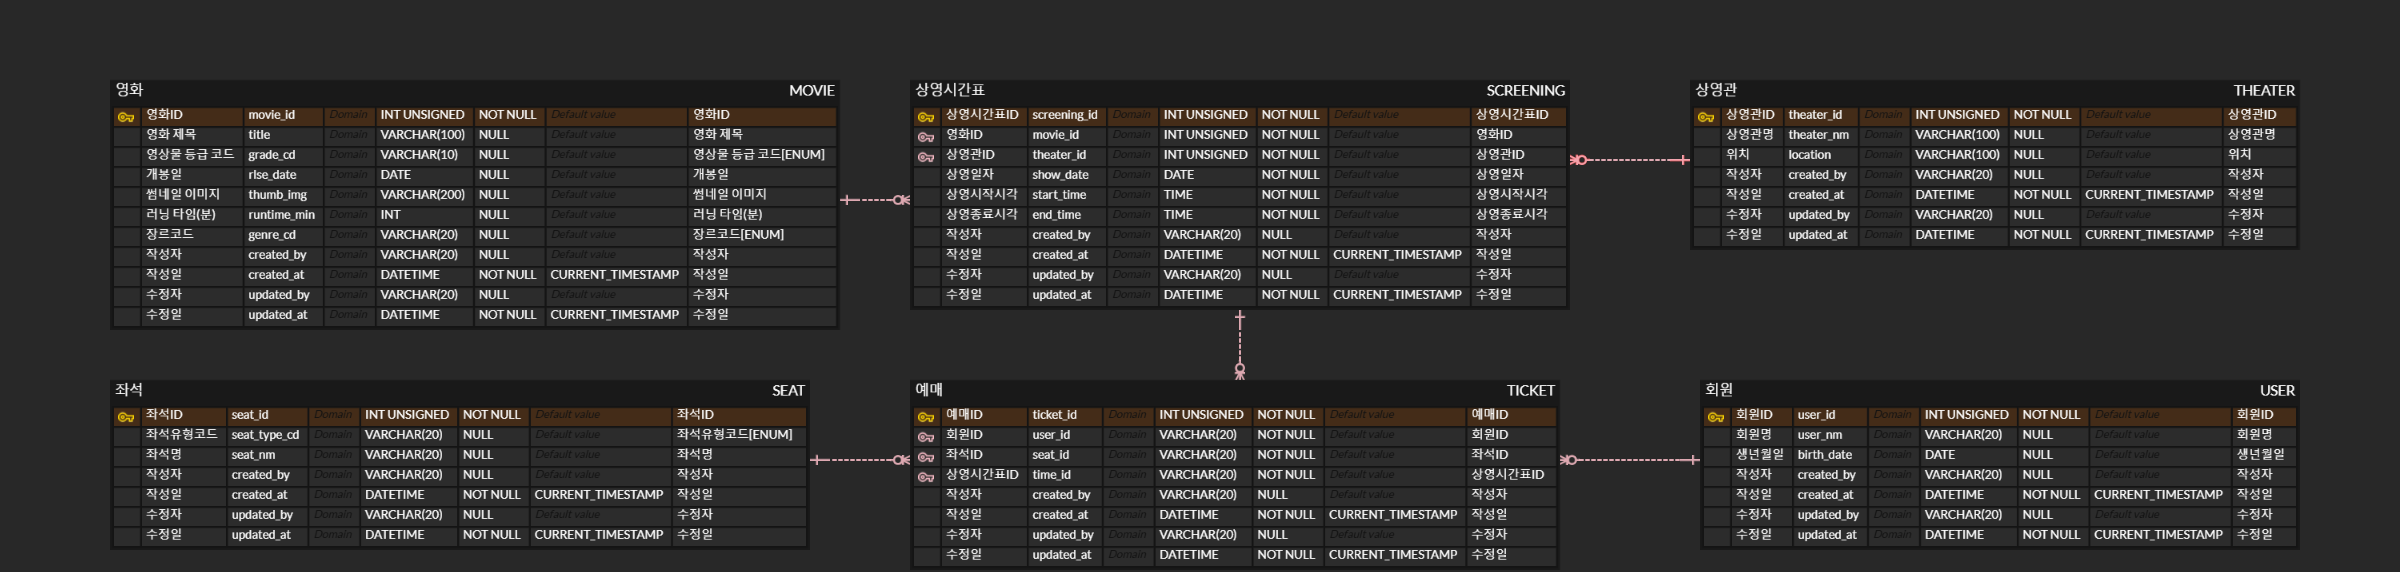
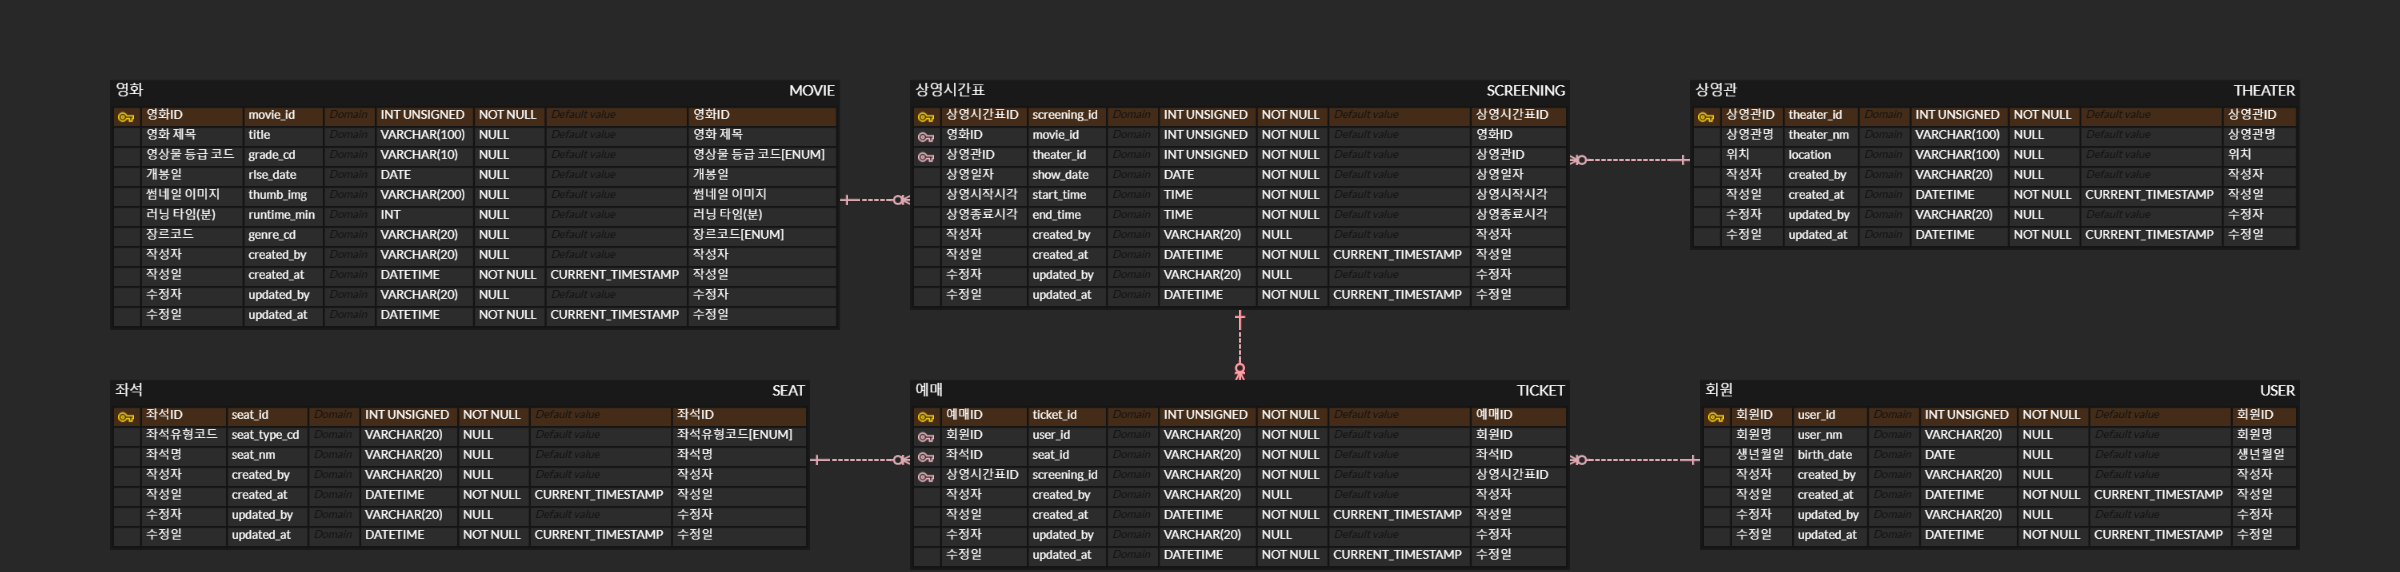
docs: erd, readme 파일 수정

Changed region(s): [[0.4375, 0.6538, 0.6875, 0.9808]]

diff --git a/README.md b/README.md
@@ -28,7 +28,7 @@
 ## [1주차] 아키텍처 설계
 
 ### 테이블 구조
-![erd image](docs/images/erd.png)
+![erd image](docs/images/corrected_erd.png)
 테이블 : 영화, 상영관, 상영시간표, 좌석, 회원, 예매
 >- 영화 썸네일 이미지는 URL로만 사용하므로 편의상 파일 테이블을 따로 생성하지 않음.
 >- 공통코드는 공통코드 테이블을 생성하지 않고 ENUM으로 관리하며, DB컬럼명을 `_cd` 어미를 붙여 구분하였음 (영상물 등급, 장르, 좌석유형)
@@ -67,7 +67,7 @@
 
 ---
 
-### 해결할 문제
+### 해결할 문제 1 - 해결 완료
 **(문제)** 애플리케이션 실행 시 다음과 같은 오류 발생하여 정상적으로 실행되지 않음.
 ```dockerfile
 ***************************
@@ -89,4 +89,96 @@ Consider the following:
 ```
 -> compose.yaml, application.yml 파일을 수정해보았으나 해결하지 못하였음. `Docker compose` 실행은 정상적으로 되는 상태이나 app url 연결에 문제가 발생하는 것으로 보임.
 
-**(해결)** Docker 포트 변경하여 해결함. 기존 3306 포트 3307로 변경하여 docker compose up 하여 띄운 후 CinemaApplication 실행하니 정상적으로 실행됨.
+**(해결 완료)** Docker 포트 변경하여 해결함. 기존 3306 포트 3307로 변경하여 docker compose up 하여 띄운 후 CinemaApplication 실행하니 정상적으로 실행됨.
+
+---
+
+### [1주차] 피드백 후 수정사항
+<span style="color: #2D3748; background-color: #fff5b1"><strong>기존테이블</strong></span>
+![erd image](docs/images/erd.png)
+
+<span style="color: #2D3748; background-color: #fff5b1"><strong>피드백 후 수정테이블</strong></span>
+![corrected_erd image](docs/images/corrected_erd.png)
+1. ✅ 테이블생성옵션 : `utf8mb4_0900_ai_ci`
+
+   ⇒ 테이블생성옵션으로 추가 완료
+2. ✅ INT → UNSIGNED INT 변경
+
+   > 음수를 사용하지 않고 더 많은 데이터 활용 가능
+   >
+
+   ⇒ 기존 INT → `INT UNSIGNED`로 변경 완료
+
+3. ✅ 러닝타임이 분단위인지 명확하게 알 수 있도록 컬럼명 수정
+
+   ⇒ 기존 run_time → `runtime_min` 으로 변경 완료
+
+4. ✅ ENUM
+
+   > 장르도 굳이 테이블로 만들지 않고 ENUM으로 바꾸면 좋지 않을까?
+   Converter를 사용해서 데이터베이스에 'ACTION'이면 -> 'A' 이렇게 저장해서 데이터베이스 리소스를 절약하는 방법 참고
+   >
+
+   ⇒ 장르 테이블 삭제 후 ENUM으로 관리될 항목은 DB컬럼명을 `_cd` 로 어미를 작성하였고, 해당 컬럼의 comment에 [ENUM]이라고 명시하였음.
+5. ✅ `LocalDateTime` 네이밍 ~At으로 적용
+
+    ⇒ 기존 reg_dttm, chg_dttm 같이 datetime의 축약어로 dttm으로 사용하던 부분을 좀 더 직관적으로 이해할 수 있도록 created_at, updated_at 으로 변경하였음. 작성자, 수정자도 비슷하게 created_by, updated_by 로 수정 완료
+
+6. ✅ `/api/v1` 패턴, URL 자원을 명사로 표기하는 방으로 API 설계
+
+   > 예약 가능 여부는 query parameter로 구분: /api/movies?bookable=true
+   >
+   >
+   > 이런 식으로 표기하는 것이 좀 더 좋지 않을까? 싶습니다. 이후 확장성 측면에서도 유리할 것 같아 보입니다.
+
+7. ✅ `RequiredArgsConstructor`와 같은 적절한 어노테이션 사용으로 보일러 플레이트 코드 제거
+8. ✅ 실무에서는 FK 참조 무결성으로 인한 성능, 스키마 변경, 데이터 이관 및 데이터 클렌징에 대한 편의성 때문에 FK 를 걸지 않는 경우가 많음.
+9. ✅ `@CreatedDate`, `@LastModifiedDate` 어노테이션 사용 시 Spring Data JPA Auditing 기능을 활성화하면 자동으로 저장, 수정 시간 설정함.
+
+---
+
+### 해결할 문제 2
+**(문제)** 엔티티와 테이블 간 자동 매핑이 되지 않음. 
+`application.yml` 파일에 아래와 같이 설정을 하였으나, 스네이크케이스와 카멜케이스 간 자동 변환이 되지 않아 발생하는 문제로 보임.
+임시로 `@Table`, `@Column(name="")`을 사용하여 매핑되게 설정하였음. 나중에 여유가 된다면 해결해볼 예정.
+```dockerfile
+spring:  
+  jpa:
+    hibernate:
+      naming:
+        physical-strategy: org.hibernate.boot.model.naming.PhysicalNamingStrategyStandardImpl
+        implicit-strategy: org.hibernate.boot.model.naming.ImplicitNamingStrategyJpaCompliantImpl
+```
+
+### 해결할 문제 3
+**(문제)** Querydsl 의존성 추가 시 Q클래스 생성되지 않는 문제 발생하여
+IntelliJ 의 `Build Complier > Annotation Processors` 설정 변경하니,
+![erd image](docs/images/problem3-2.jpg)
+
+`build/generated/sources/annotationProcessor/java/main` 폴더는 정상적으로 생성되었음.
+해당 폴더가 generated sources root로 marked된 것까지 확인되었으나 Q클래스가 생성되지 않음.
+
+![erd image](docs/images/problem3-1.jpg)
+
+build.gradle 파일을 수정하여 다양한 방법으로 시도하였으나 이틀 동안 해결하지 못하여 일단 Querydsl을 사용하지 않고 진행하기로 함. 나중에 해결해볼 것.
+
+멀티 모듈을 사용함에 따른 모듈 간 의존성 설정 문제일수도 있을 것 같음.
+
+
+---
+
+# [2주차] 성능 테스트
+
+### 검색 조건 추가
+- 제목, 장르 필터
+
+### 인덱스 추가
+- 영화 : (조인) 영화 ID / (정렬) 개봉일 / (검색) 제목+장르
+- 상영시간표 : (조인) 상영시간표 ID, 영화 ID, 상영관 ID / (정렬) 시작시각
+- 상영관 : (조인) 상영시간표 ID
+- 좌석 : (조인) 좌석 ID
+- 예매 : (조인) 예매 ID, 좌석 ID, 회원 ID, 상영시간표 ID
+- 회원 : (조인) 회원 ID
+
+
+
